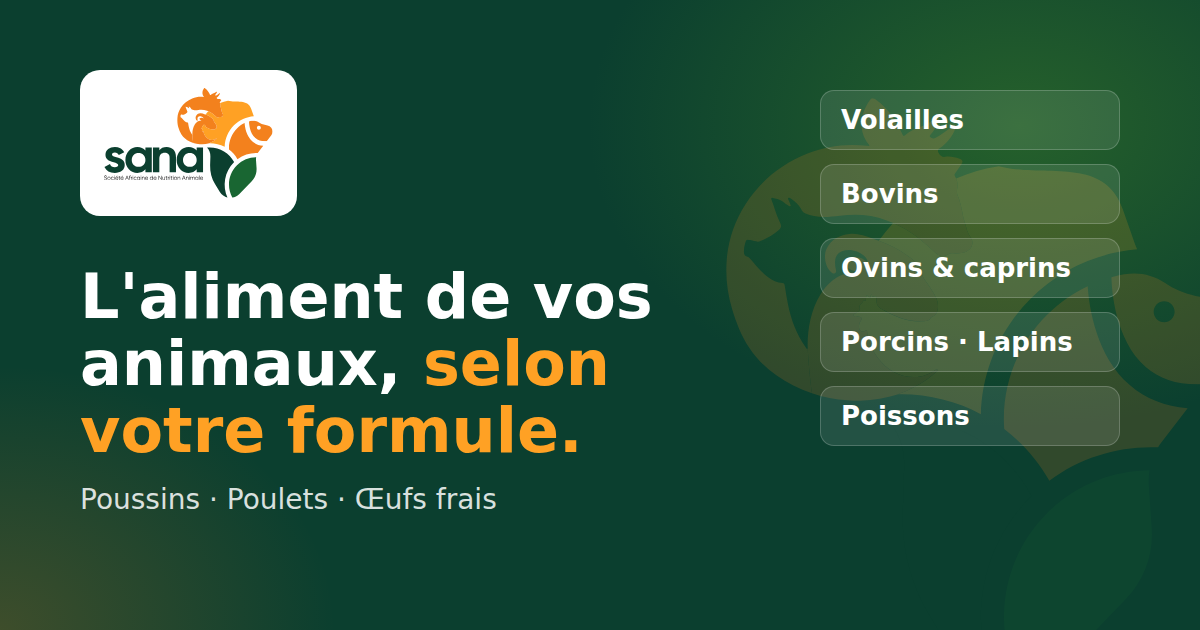
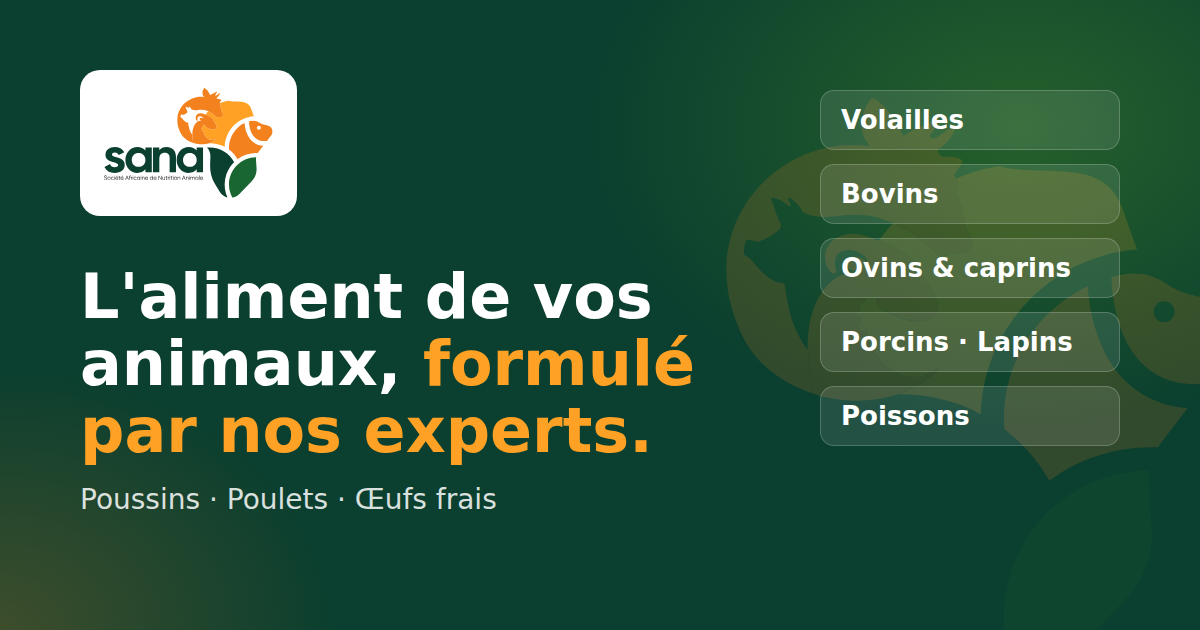
Accroche : « formulé par nos experts »
La formule appartient à SANA : remplace « composé selon votre formule »
dans le titre, la description de partage, l'image de partage, un atout
et la carte Aliments.

Changed region(s): [[0.0617, 0.5429, 0.5858, 0.754]]

diff --git a/index.html b/index.html
@@ -12,7 +12,7 @@
   <meta property="og:locale" content="fr_CI">
   <meta property="og:site_name" content="SANA">
   <meta property="og:title" content="SANA — Aliments pour animaux sur mesure, poulets et œufs">
-  <meta property="og:description" content="Aliments composés selon votre formule pour tous vos animaux. Poussins, poulets et œufs frais.">
+  <meta property="og:description" content="Aliments composés formulés par nos experts pour tous vos animaux. Poussins, poulets et œufs frais.">
   <meta property="og:url" content="https://yassine1158.github.io/WEBSITE-SANA-/">
   <meta property="og:image" content="https://yassine1158.github.io/WEBSITE-SANA-/assets/img/og-image.png">
   <meta property="og:image:width" content="1200">
@@ -98,7 +98,7 @@
   <div class="container hero-grid">
     <div class="hero-text">
       <span class="eyebrow eyebrow-light" data-c="company.fullName"></span>
-      <h1><span data-c="hero.title">L'aliment de tous vos animaux,</span> <em data-c="hero.highlight">composé selon votre formule.</em></h1>
+      <h1><span data-c="hero.title">L'aliment de tous vos animaux,</span> <em data-c="hero.highlight">formulé par nos experts.</em></h1>
       <p class="lead" data-c="hero.lead">SANA fabrique des aliments pour volailles, bovins, ovins, porcins, lapins et poissons, et vend des poulets et des œufs frais.</p>
       <div class="hero-cta">
         <a href="#composition" class="btn btn-accent">Demander mon aliment <svg class="ico"><use href="#i-arrow"/></svg></a>

diff --git a/data/content.js b/data/content.js
@@ -10,7 +10,7 @@ window.SANA_CONTENT = {
   },
   "hero": {
     "title": "L'aliment de tous vos animaux,",
-    "highlight": "composé selon votre formule.",
+    "highlight": "formulé par nos experts.",
     "lead": "SANA fabrique des aliments pour volailles, bovins, ovins, porcins, lapins et poissons, et vend des poulets et des œufs frais. Dites-nous l'espèce, le stade et la quantité : nous formulons, fabriquons et livrons."
   },
   "about": {
@@ -23,7 +23,7 @@ window.SANA_CONTENT = {
       {
         "icon": "flask",
         "title": "Dosage précis",
-        "text": "Chaque matière première pesée selon votre formule, au dixième de pourcent."
+        "text": "Chaque matière première pesée avec précision selon nos formules."
       },
       {
         "icon": "shield",
@@ -171,7 +171,7 @@ window.SANA_CONTENT = {
   },
   "feed": {
     "title": "Aliments pour tous les animaux",
-    "desc": "Fabriqués selon votre composition ou nos formules de référence.",
+    "desc": "Formulés par notre technicien selon l'espèce, le stade et vos objectifs.",
     "items": [
       "Farine, miettes ou granulés",
       "Sacs de 25 ou 50 kg, ou vrac",
